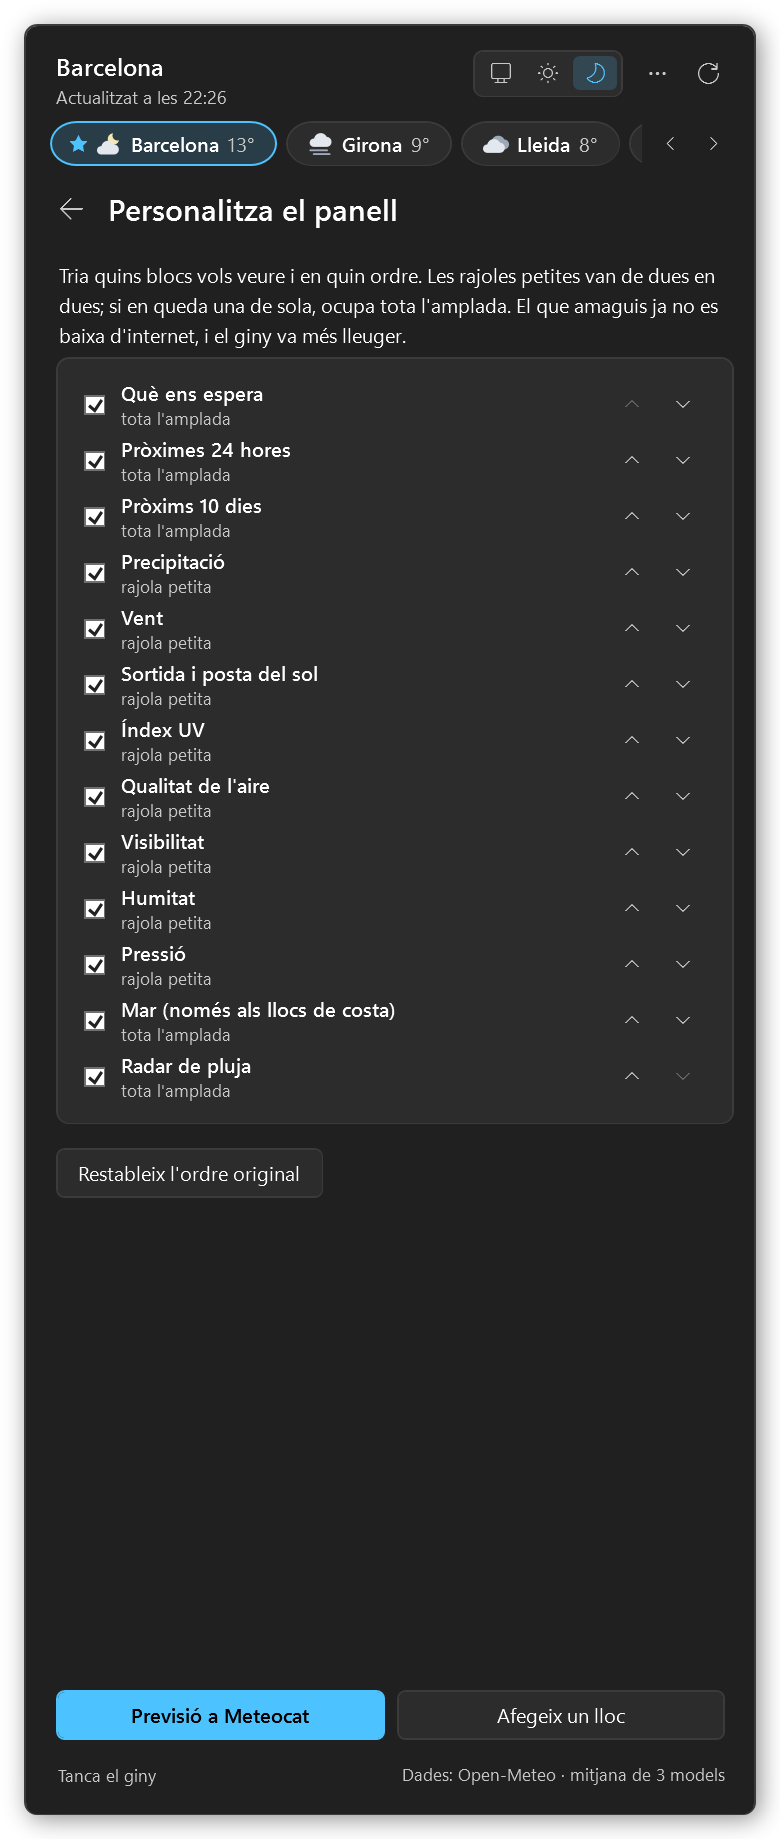
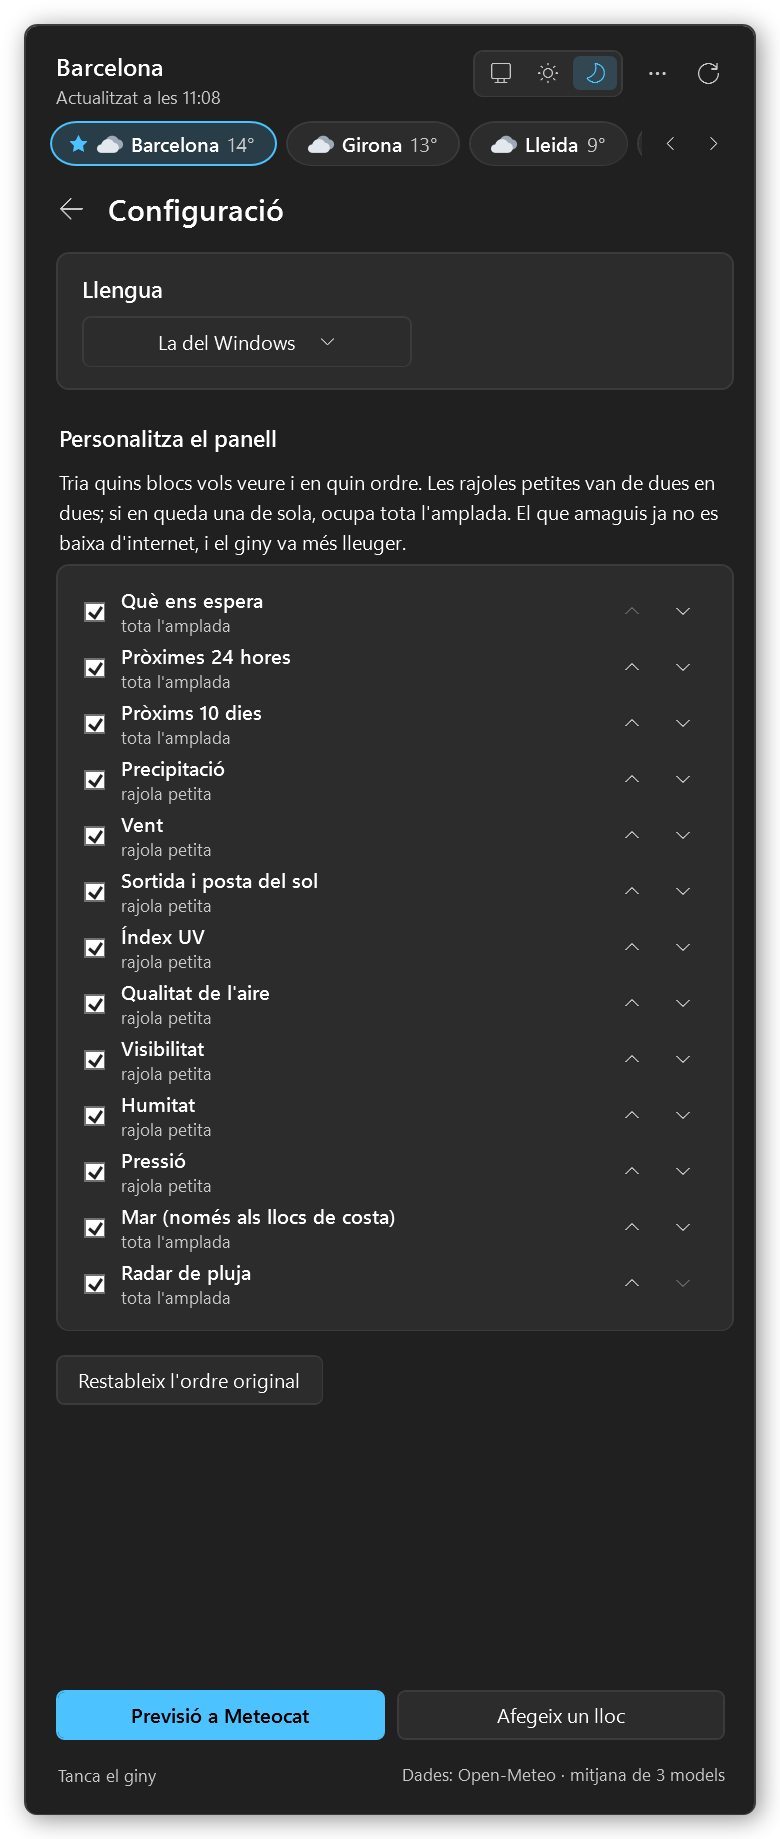
Pàgina «Configuració»: llengua i blocs del panell
- La roda dentada del menú ⋯ (i el botó del peu del panell) obre
  «Configuració», amb la llengua a dalt i «Personalitza el panell» a sota.
- El «Quant a» ja no porta el selector de llengua.
- Clau nova configuracio-titol en totes les llengües; qqq al dia.
- README, CHANGELOG i captura de «Personalitza» al dia.

diff --git a/src/xaml/Detall.xaml b/src/xaml/Detall.xaml
@@ -152,7 +152,7 @@
           </Border>
 
           </StackPanel>
-          <Button x:Name="BPersonalitza" Style="{StaticResource Pla}" HorizontalAlignment="Center" Margin="0,8,0,6" FontSize="12.5" Content="@T:personalitza-titol@"/>
+          <Button x:Name="BPersonalitza" Style="{StaticResource Pla}" HorizontalAlignment="Center" Margin="0,8,0,6" FontSize="12.5" Content="@T:configuracio-titol@"/>
         </StackPanel>
       </ScrollViewer>
       <Grid x:Name="Sub" Visibility="Collapsed">

diff --git a/src/Subpagines.cs b/src/Subpagines.cs
@@ -362,22 +362,10 @@ namespace TempsBarra
             sp.Children.Add(tb);
         }
 
-        static void QuantA()
+        // Secció «Llengua» de la pàgina Configuració
+        static void SeccioLlengua()
         {
             Dictionary<string, string> p = det.P;
-            det.SubTitol.Text = T("menu-quant-a");
-            StackPanel sp = Targeta();
-            StackPanel cap = new StackPanel(); cap.Orientation = Orientation.Horizontal;
-            Viewbox ic = IconaCaixa("mig", true, 44); ic.Margin = new Thickness(0, 0, 12, 0); cap.Children.Add(ic);
-            StackPanel tt = new StackPanel(); tt.VerticalAlignment = VerticalAlignment.Center;
-            tt.Children.Add(Text("Quina Barra!", 22, p["FG"], "SemiBold"));
-            tt.Children.Add(Text(T("quanta-versio", Versio), 12.5, p["SUB"]));
-            cap.Children.Add(tt); sp.Children.Add(cap);
-            TextBlock ds = Text(T("quanta-descripcio"), 13.5, p["FG"]); ds.TextWrapping = TextWrapping.Wrap; ds.Margin = new Thickness(0, 12, 0, 0);
-            sp.Children.Add(ds);
-            LiniaT(sp, "quanta-autor", "Pep Payo", UrlAutor);
-            LiniaT(sp, "quanta-codi", "github.com/PepPepet/quina-barra", UrlRepo);
-
             // Llengua
             StackPanel spL = Targeta();
             spL.Children.Add(Text(T("llengua-titol"), 15, p["FG"], "SemiBold"));
@@ -411,6 +399,23 @@ namespace TempsBarra
                 TextBlock nt = Text(T("llengua-nota"), 12.5, p["SUB"]); nt.TextWrapping = TextWrapping.Wrap; nt.Margin = new Thickness(0, 10, 0, 0);
                 spL.Children.Add(nt);
             }
+        }
+
+        static void QuantA()
+        {
+            Dictionary<string, string> p = det.P;
+            det.SubTitol.Text = T("menu-quant-a");
+            StackPanel sp = Targeta();
+            StackPanel cap = new StackPanel(); cap.Orientation = Orientation.Horizontal;
+            Viewbox ic = IconaCaixa("mig", true, 44); ic.Margin = new Thickness(0, 0, 12, 0); cap.Children.Add(ic);
+            StackPanel tt = new StackPanel(); tt.VerticalAlignment = VerticalAlignment.Center;
+            tt.Children.Add(Text("Quina Barra!", 22, p["FG"], "SemiBold"));
+            tt.Children.Add(Text(T("quanta-versio", Versio), 12.5, p["SUB"]));
+            cap.Children.Add(tt); sp.Children.Add(cap);
+            TextBlock ds = Text(T("quanta-descripcio"), 13.5, p["FG"]); ds.TextWrapping = TextWrapping.Wrap; ds.Margin = new Thickness(0, 12, 0, 0);
+            sp.Children.Add(ds);
+            LiniaT(sp, "quanta-autor", "Pep Payo", UrlAutor);
+            LiniaT(sp, "quanta-codi", "github.com/PepPepet/quina-barra", UrlRepo);
 
             // Actualitzacions i arrencada
             StackPanel spA = Targeta();

diff --git a/src/Blocs.cs b/src/Blocs.cs
@@ -131,7 +131,7 @@ namespace TempsBarra
             buida();
         }
 
-        // ---------- Pàgina «Personalitza el panell» ----------
+        // ---------- Pàgina «Configuració»: llengua i «Personalitza el panell» ----------
         static void CanviaBloc(Action<List<EstatBloc>> canvi, bool calenDades)
         {
             List<EstatBloc> ordre = OrdreBlocs();
@@ -148,7 +148,10 @@ namespace TempsBarra
         static void PaginaPersonalitza()
         {
             Dictionary<string, string> p = det.P;
-            det.SubTitol.Text = T("personalitza-titol");
+            det.SubTitol.Text = T("configuracio-titol");
+            SeccioLlengua();
+            TextBlock tp = Text(T("personalitza-titol"), 15, p["FG"], "SemiBold"); tp.Margin = new Thickness(6, 18, 6, 0);
+            det.SubCos.Children.Add(tp);
             Paragraf("", T("personalitza-explicacio"));
             StackPanel sp = Targeta();
             List<EstatBloc> ordre = OrdreBlocs();
@@ -220,7 +223,7 @@ namespace TempsBarra
         {
             ContextMenu cm = new ContextMenu();
             cm.Style = (Style)det.W.FindResource(typeof(ContextMenu));
-            cm.Items.Add(OpcioMenu("\uE70F", T("personalitza-titol"), () => MostraSubpagina("Personalitza")));
+            cm.Items.Add(OpcioMenu("\uE713", T("configuracio-titol"), () => MostraSubpagina("Personalitza")));
             cm.Items.Add(OpcioMenu("\uE946", VersioNova != null ? T("menu-quant-a-versio-nova") : T("menu-quant-a"), () => MostraSubpagina("QuantA")));
             cm.Items.Add(OpcioMenu("\uE8BB", T("menu-tanca"), () => app.Shutdown()));
             cm.Opened += (s, e) => menuObert = true;

diff --git a/src/Panell.cs b/src/Panell.cs
@@ -602,7 +602,7 @@ namespace TempsBarra
             MostraDetall();
         }
 
-        // Canvia la llengua: es desa, es tornen a fer els textos i el panell, i es torna al «Quant a»
+        // Canvia la llengua: es desa, es tornen a fer els textos i el panell, i es torna a «Configuració»
         static void CanviaLlengua(string codi)
         {
             Conf.Llengua = codi;
@@ -619,7 +619,7 @@ namespace TempsBarra
             ActualitzaTemps(false);
             tancatA = null;
             MostraDetall();
-            MostraSubpagina("QuantA");
+            MostraSubpagina("Personalitza");
         }
 
         public static void MostraDetall()

diff --git a/README.md b/README.md
@@ -1,4 +1,4 @@
-# Quina Barra!
+# Quina Barra!
 
 *El temps del teu poble a la barra de tasques, en català.*
 
@@ -25,16 +25,16 @@ Giny per a Windows 11 que posa **el temps del teu poble** a l'esquerra de la bar
 - **Rajoles** de precipitació, vent, sortida i posta del sol, índex UV, qualitat de l'aire (escala oficial ICA), visibilitat, humitat i pressió. Cada rajola obre una **pàgina de detall** amb gràfic per hores i explicació.
 - **Mar**, als llocs de costa: onades, període, mar de fons, temperatura de l'aigua i l'estat de les platges (bandera, meduses, transparència).
 - **Radar de pluja** de les últimes 2 hores, animat, sobre un mapa d'OpenStreetMap.
-- **Personalitza el panell**: tria quins blocs vols veure i en quin ordre. El que amaguis ja no es baixa d'internet.
+- **Configuració** (roda dentada del menú ⋯): la llengua i **Personalitza el panell**, per triar quins blocs vols veure i en quin ordre. El que amaguis ja no es baixa d'internet.
 - Als municipis de Catalunya, enllaç directe a la previsió de **Meteocat**.
-- **En nou llengües**: català, valencià, gallec, basc, asturià, aragonès, occità, aranès i alguerès. Agafa la del Windows si la té, i la pots canviar al **Quant a**.
+- **En nou llengües**: català, valencià, gallec, basc, asturià, aragonès, occità, aranès i alguerès. Agafa la del Windows si la té, i la pots canviar a **Configuració**.
 - Mode clar, fosc o com el Windows. S'amaga quan mires un vídeo a pantalla completa.
 - Lleuger: uns 100 MB de memòria i pràcticament gens de processador.
 
 <p>
   <img src="docs/captures/detall-vent.png" width="250" alt="Detall del vent">
   <img src="docs/captures/detall-sol.png" width="250" alt="Sortida i posta del sol">
-  <img src="docs/captures/personalitza.png" width="250" alt="Personalitza el panell">
+  <img src="docs/captures/personalitza.png" width="250" alt="Configuració: llengua i blocs del panell">
 </p>
 
 ## Com s'instal·la
@@ -50,7 +50,7 @@ Un cop al dia mira si hi ha una versió nova. No la baixa ni la instal·la pel s
 
 - **Clic** al giny: obre el panell. **Clic** a una rajola: n'obre el detall. Per tornar: la fletxa ←, la tecla Esc o el botó lateral «enrere» del ratolí.
 - **Pastilles de llocs**: un clic hi salta; **+ Afegeix** en desa un de nou; amb el **botó dret** el pots fer principal, canviar-li el nom, moure'l o treure'l. El principal (★) és el que surt a la barra.
-- **Menú ⋯**: Personalitza el panell, Quant a i Tanca el giny.
+- **Menú ⋯**: Configuració (llengua i blocs del panell), Quant a i Tanca el giny.
 
 ## Llengües
 
@@ -71,7 +71,7 @@ Un cop al dia mira si hi ha una versió nova. No la baixa ni la instal·la pel s
   <img src="docs/captures/panell-eu.png" width="380" alt="Panell en basc">
 </p>
 
-Som de Catalunya i el giny l'hem fet en català. Les altres llengües les hem traduït amb l'ajuda de Claude, la IA d'Anthropic, i les hem revisat amb cura, però no som lingüistes: si hi trobes errors, els suggeriments són benvinguts. El giny tria la llengua del Windows si la té (el Windows té català, valencià, gallec i basc) i, si no, la pots triar a mà al **Quant a**. Cada llengua és un fitxer de text al format de jquery.i18n; `src/textos/qqq.json` explica on surt cada text.
+Som de Catalunya i el giny l'hem fet en català. Les altres llengües les hem traduït amb l'ajuda de Claude, la IA d'Anthropic, i les hem revisat amb cura, però no som lingüistes: si hi trobes errors, els suggeriments són benvinguts. El giny tria la llengua del Windows si la té (el Windows té català, valencià, gallec i basc) i, si no, la pots triar a mà a **Configuració**. Cada llengua és un fitxer de text al format de jquery.i18n; `src/textos/qqq.json` explica on surt cada text.
 
 ## On desa les coses i com es desinstal·la
 

diff --git a/CHANGELOG.md b/CHANGELOG.md
@@ -7,10 +7,11 @@ Totes les versions de **Quina Barra!**, de la més nova a la més antiga.
 Ara parla nou llengües.
 
 - **Llengües noves:** valencià, gallec, basc, asturià, aragonès, occità, aranès i alguerès, a més del català. Traduïdes amb l'ajuda de Claude i revisades amb la norma de cada llengua; no som lingüistes, així que els suggeriments són benvinguts.
-- El giny agafa la llengua del Windows si la té; si no, surt en català. Es pot canviar a **Quant a** → **Llengua**, i es desa a la configuració.
+- El giny agafa la llengua del Windows si la té; si no, surt en català. Es pot canviar a la pàgina nova **Configuració** (roda dentada del menú ⋯), i es desa a la configuració.
+- **Configuració** substitueix «Personalitza el panell» al menú ⋯ i al peu del panell: hi ha la llengua i, a sota, els blocs del panell.
 - Els textos ja no són dins del codi: cada llengua és un fitxer a `src/textos/` (format jquery.i18n), amb una nota per a cada text que explica on surt.
 - `/prova <carpeta> <llengua>` fa les captures en la llengua que triïs i avisa si falta algun text.
-- En català, el giny es veu i funciona exactament igual que la 1.0.
+- A part de la pàgina Configuració, en català el giny es veu i funciona igual que la 1.0.
 
 ## [1.0] · 23/11/2026
 
